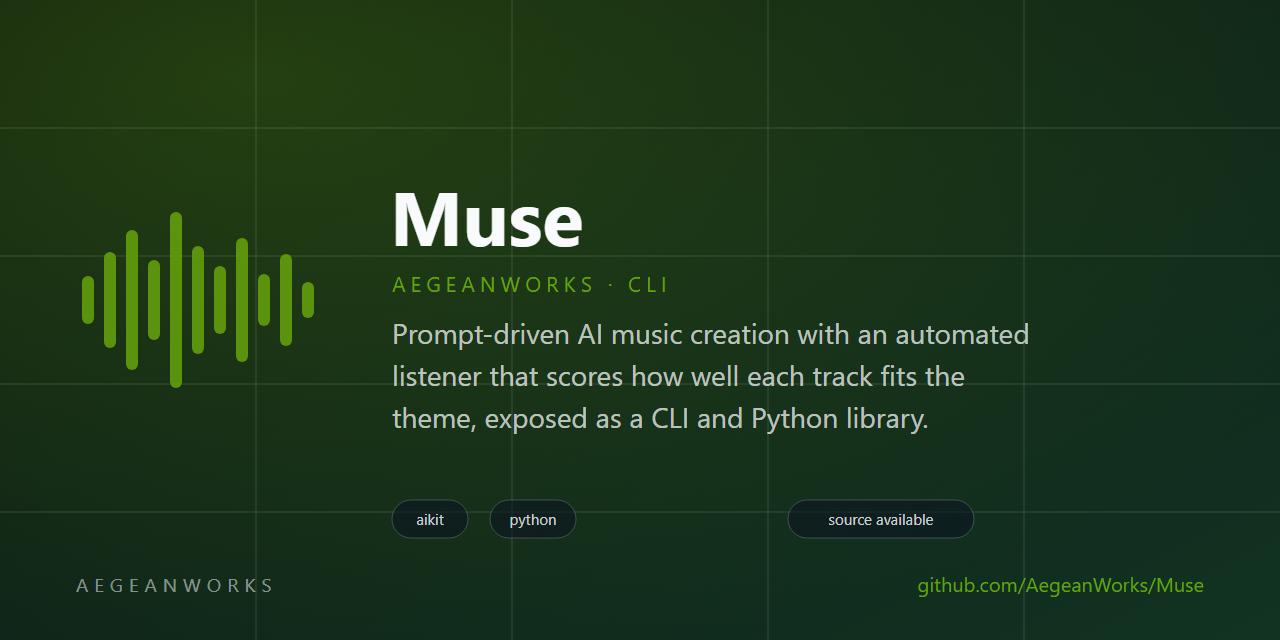
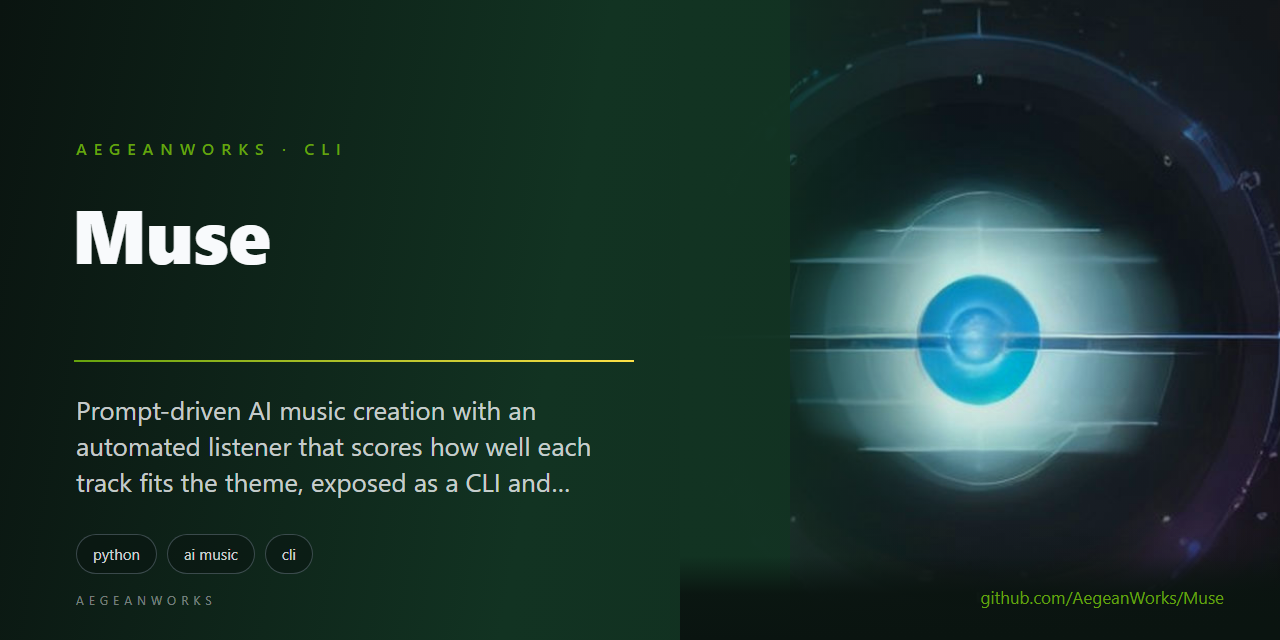
feat(brand): replace procedural marks with reviewed AI-art identities

diff --git a/README.md b/README.md
@@ -1,8 +1,8 @@
 # muse
 
 <!-- aegean:media:start -->
-<p align="center"><img src="assets/logo.svg" alt="Muse logo" width="96" height="96"></p>
-<p align="center"><img src="assets/social-preview.svg" alt="Muse social preview" width="100%"></p>
+<p align="center"><img src="assets/logo.png" alt="Muse logo" width="96" height="96"></p>
+<p align="center"><img src="assets/social-preview.png" alt="Muse social preview" width="100%"></p>
 <!-- aegean:media:end -->
 
 [![Built with AIKit](https://img.shields.io/badge/built%20with-AIKit-6f42c1)](https://github.com/AegeanWorks/AIKit)
